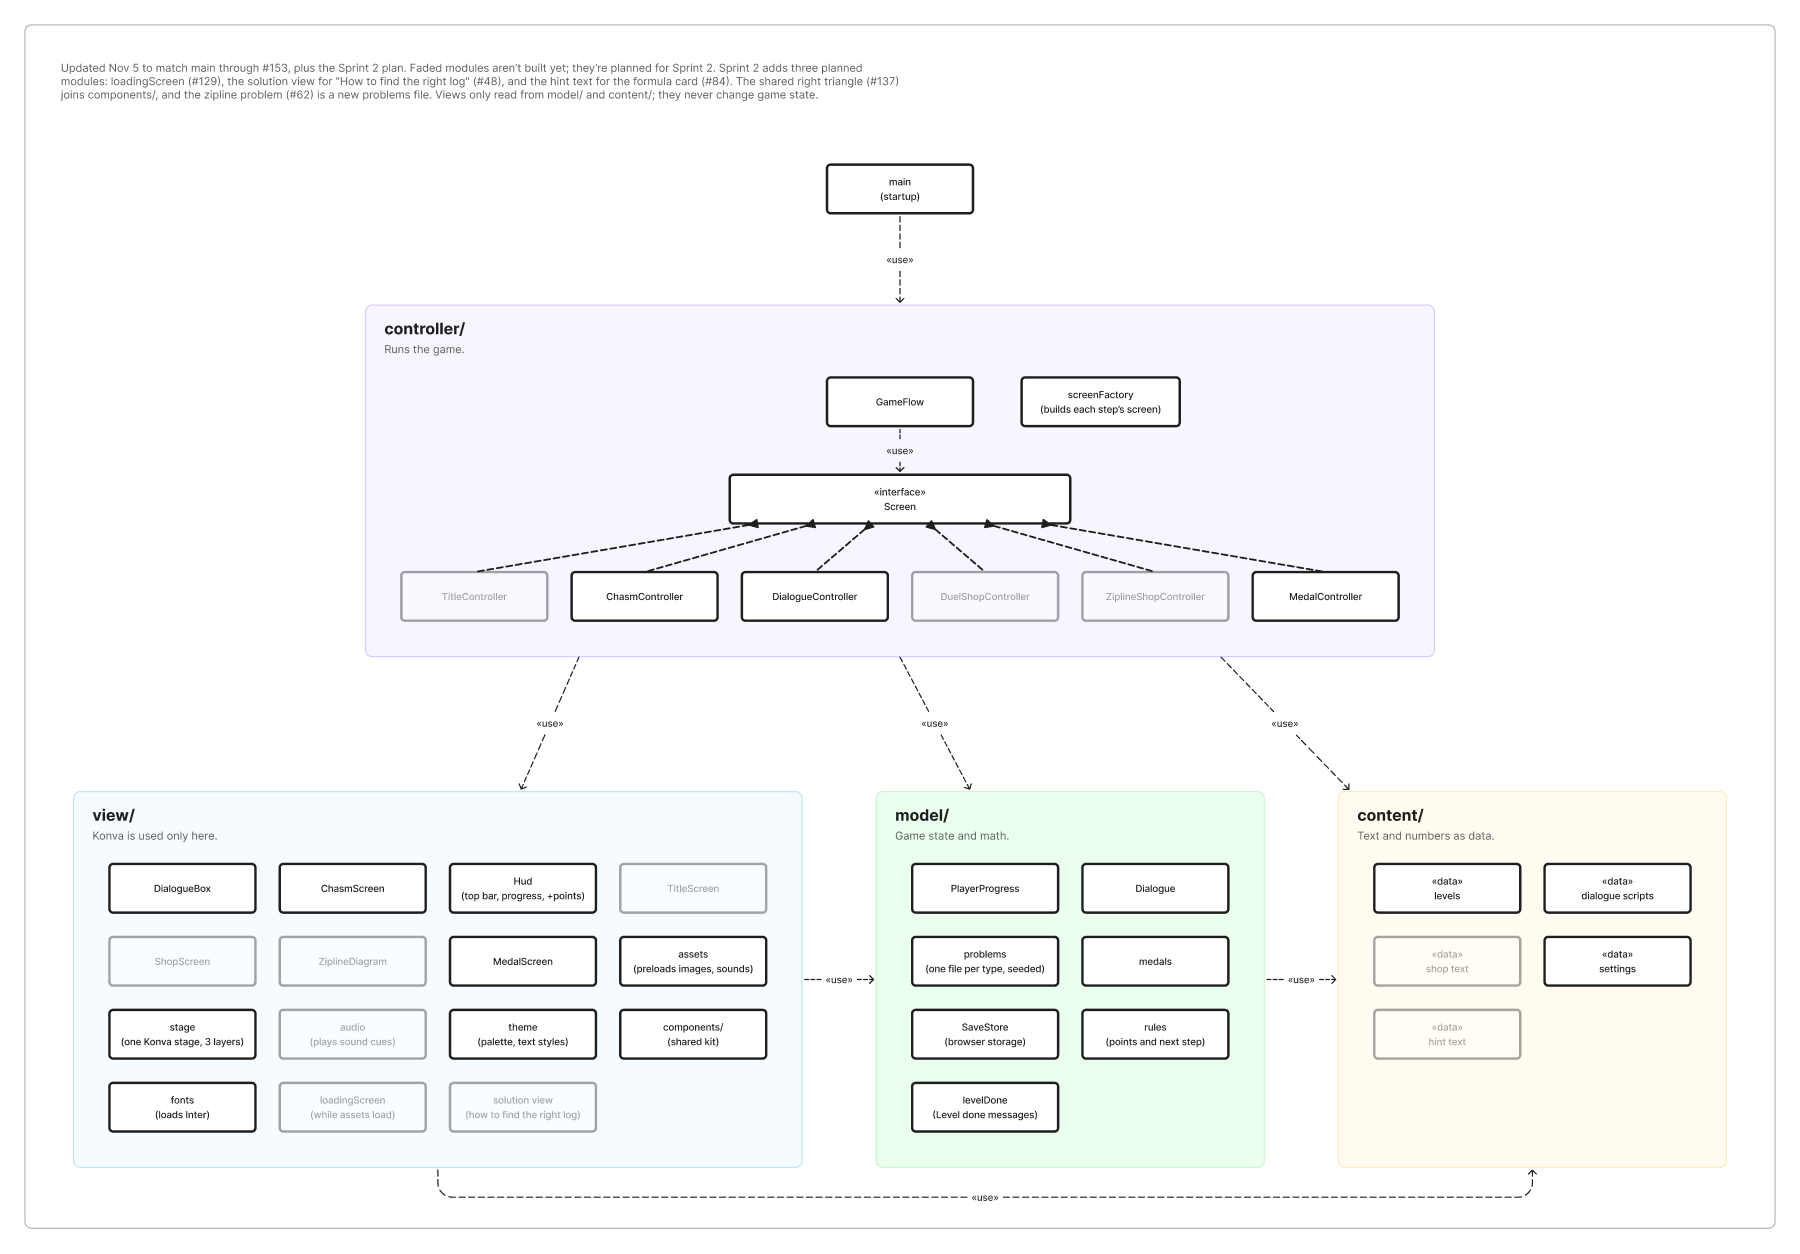
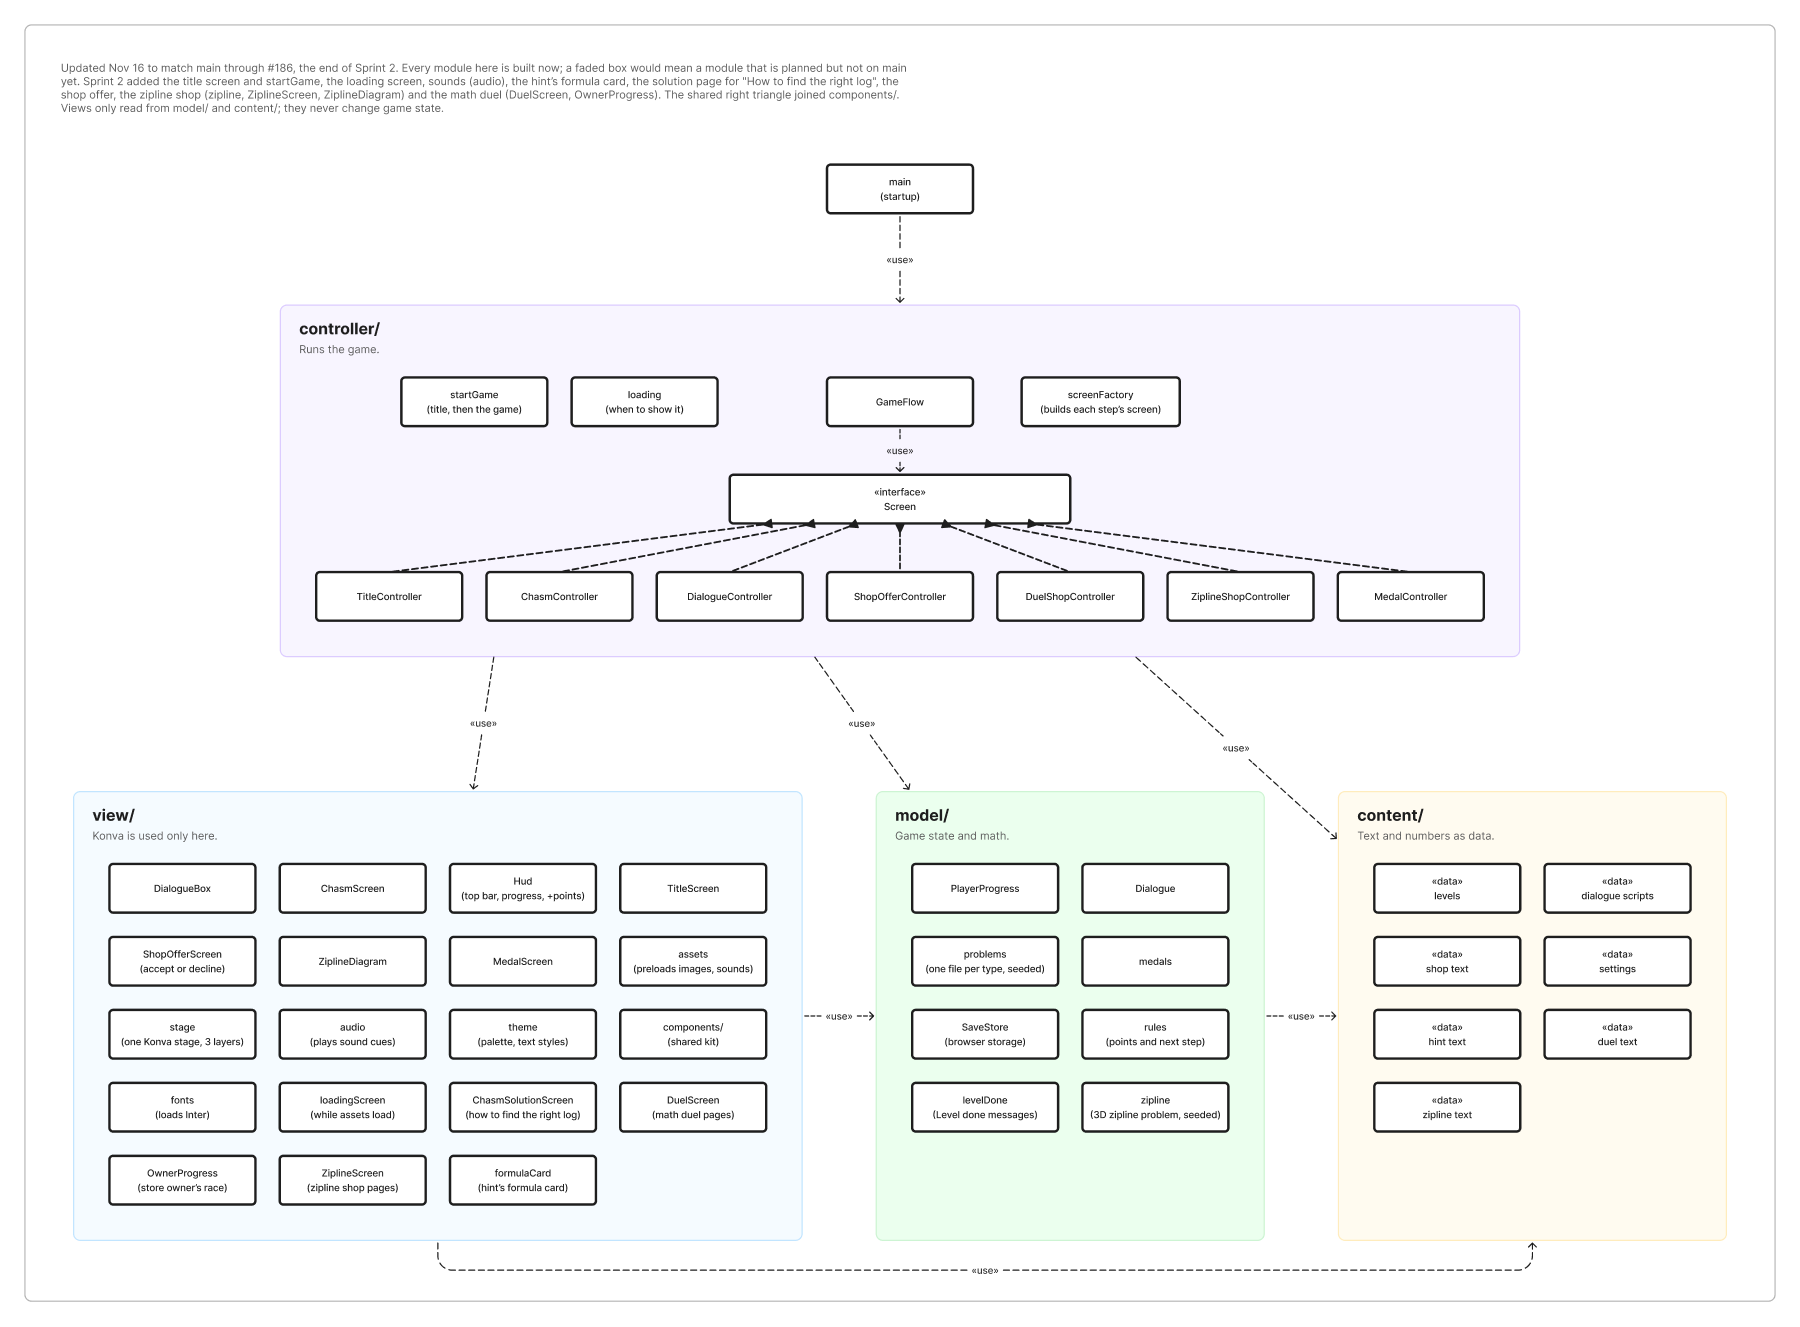
docs: re-export the module and C&C views for the end of Sprint 2
Both diagrams now match main through #186. The module view shows every
Sprint 2 module as built, with ShopOfferController, startGame, loading,
DuelScreen, OwnerProgress, ZiplineScreen, formulaCard, zipline, and the
duel and zipline text added. The C&C view describes the Sprint 2
screens and both scenarios, including startGame reading the save before
GameFlow starts. The captions now say every module is built and that
audio isn't called yet.

diff --git a/src/controller/README.md b/src/controller/README.md
@@ -25,7 +25,7 @@ May import `model/`, `view/`, and `content/`. Nothing else imports from here exc
 This is the folder that turns our separate screens into a game. It holds the `Screen` contract, GameFlow, which plays the game's steps, a controller for each kind of screen built so far, and the screen factory, which builds the right screen for each step. `main.ts` shows the title screen first, then creates GameFlow with that factory for the game the player picked.
 
 <img src="../../docs/images/cc-view.png" width="900" />\
-*The runtime (C&C) view, showing what talks to what while the game runs. Connector names match the code, and components marked "Not built yet" show the design. View the live version in [Figma](https://www.figma.com/design/LLtfHewfTMLycUXFUVuyEH).*
+*The runtime (C&C) view, showing what talks to what while the game runs. Connector names match the code. `audio` is built but not called yet, so its connector shows the design it will follow. View the live version in [Figma](https://www.figma.com/design/LLtfHewfTMLycUXFUVuyEH).*
 
 ---
 

diff --git a/README.md b/README.md
@@ -114,7 +114,7 @@ These are grouped by what they're for. Each links to its section in the folder d
 ## Architecture Overview
 
 <img src="docs/images/module-view.png" width="900" />\
-*The module view showing which modules exist and what each one may use. Faded boxes aren't built yet. View the live version in [Figma](https://www.figma.com/board/UqaCm5s3LuddFWG7xfzhlS).*
+*The module view showing which modules exist and what each one may use. Every module is built as of the end of Sprint 2; a faded box would mean one that isn't built yet. View the live version in [Figma](https://www.figma.com/board/UqaCm5s3LuddFWG7xfzhlS).*
 
 We follow MVC, with a fourth folder for data. Each of these is a folder in `src/` and offers its own README:
 
